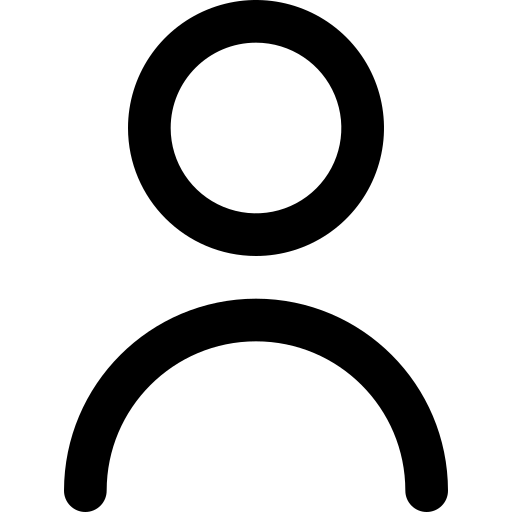
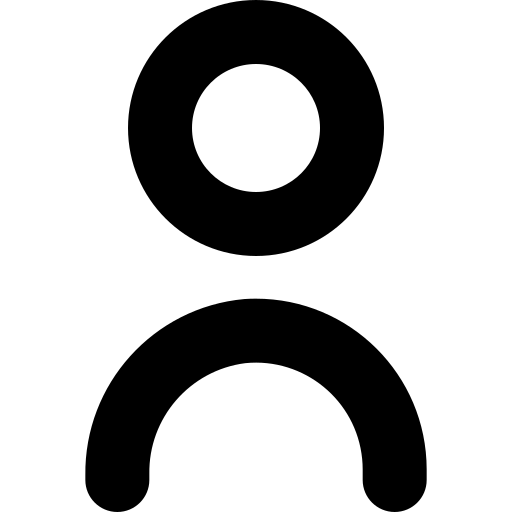
Сделал обновление списка чатов при выходе из диалога и поправил bottomTabNavigator

diff --git a/src/screens/MainNavigationScreen.js b/src/screens/MainNavigationScreen.js
@@ -2,7 +2,7 @@ import React from 'react';
 import { createBottomTabNavigator } from '@react-navigation/bottom-tabs';
 import MainScreen from './MainScreen';
 import MessagesScreen from './MessagesScreen';
-import { Image, TouchableOpacity } from 'react-native';
+import { Image, StyleSheet, TouchableOpacity, View } from 'react-native';
 import ProfileScreen from './ProfileScreen';
 import {useDispatch, useSelector} from "react-redux";
 import { MultiPlatform } from '../components/MultiPlatform';
@@ -17,7 +17,8 @@ const BottomTab = createBottomTabNavigator()
 const MainNavigationScreen = () => {
 
     const isSpecialist = useSelector(state => state.LoginSlice.userData.isSpecialist)
-
+    const userData = useSelector(state => state.LoginSlice.userData)
+    
     const dispatch = useDispatch();
 
     const navigation = useNavigation()
@@ -44,7 +45,7 @@ const MainNavigationScreen = () => {
             photo: ""
         })
     }
-
+    console.log(userData?.photo)
     return (
         <BottomTab.Navigator
             screenOptions={{
@@ -161,11 +162,11 @@ const MainNavigationScreen = () => {
                     tabBarLabelStyle: {
                         fontSize: MultiPlatform.AdaptivePixelsSize(13)
                     },
-                    tabBarIcon: () => {
+                    tabBarIcon: ({ focused }) => {
                         return (
                             <Image 
-                                style={{ width: MultiPlatform.AdaptivePixelsSize(26), height: MultiPlatform.AdaptivePixelsSize(26), borderRadius: 100  }} 
-                                source={ require('../images/oval.png') }/>
+                                style={ !userData?.photo ? { ...styles.imageStyle, tintColor: focused ? "#54B9D1" : "#AAB2BD" } : {...styles.imageStyle}} 
+                                source={ !userData?.photo ? require('../images/user.png') : { uri: baseURL + "u/i/" + userData.photo }} />
                         )
                     },
                     tabBarIconStyle: {  
@@ -177,5 +178,13 @@ const MainNavigationScreen = () => {
         </BottomTab.Navigator>
     )
 }
+
+const styles = StyleSheet.create({
+    imageStyle: {
+        width: MultiPlatform.AdaptivePixelsSize(26), 
+        height: MultiPlatform.AdaptivePixelsSize(26), 
+        borderRadius: 100,
+    }
+})
 
 export default MainNavigationScreen;

diff --git a/src/screens/MessagesScreen.js b/src/screens/MessagesScreen.js
@@ -5,6 +5,7 @@ import baseApiURL from '../requests/baseApiURL';
 import Request from '../requests/Request';
 import {useSelector} from "react-redux";
 import { MultiPlatform } from '../components/MultiPlatform';
+import { useNavigation } from '@react-navigation/native';
 
 const MessagesScreen = () => {
 
@@ -13,10 +14,13 @@ const MessagesScreen = () => {
     const [loading, setLoading] = useState(false)
     const isSpecialist = useSelector(state => state.LoginSlice.userData.isSpecialist)
     const route = isSpecialist ? "Get_specialist_questions" : "Get_user_questions"
-
-    const DATA = []
+    
+    const navigation = useNavigation()
 
     const getChats = async () => {
+        
+        const DATA = []
+
         setResponse({})
         setLoading(true)
         let response = await Request.get(baseApiURL + route, {});
@@ -57,7 +61,12 @@ const MessagesScreen = () => {
     }
 
     useEffect(() => {
-        getChats()
+        navigation.addListener(
+            'focus',
+            payload => {
+                getChats()
+            }
+        );
     }, [])
 
     return (

diff --git a/src/screens/AnamnezScreens/DisplayAnamnezScreen.js b/src/screens/AnamnezScreens/DisplayAnamnezScreen.js
@@ -27,7 +27,7 @@ const DisplayAnamnezScreen = ({ route }) => {
                     <FlatList 
                         style={{  width: '85%' }}
                         data={anamnesQuestion}
-                        showsVerticalScrollIndicator={false}
+                        showsHorizontalScrollIndicator={false}
                         keyExtractor={(item) => item.id}
                         renderItem={({ item, index }) => {
                             return (

diff --git a/src/screens/ChatScreen.js b/src/screens/ChatScreen.js
@@ -148,6 +148,7 @@ const ChatScreen = ({ route }) => {
             .then(response => {
                 response['response'] &&
                 setUserID(response['response'][0]["my_id"])
+                setClosed(response['response'][0]["closed_by"])
                 response['response'][0]['Answer'].forEach(element => {
                     DATA.push(
                         {
